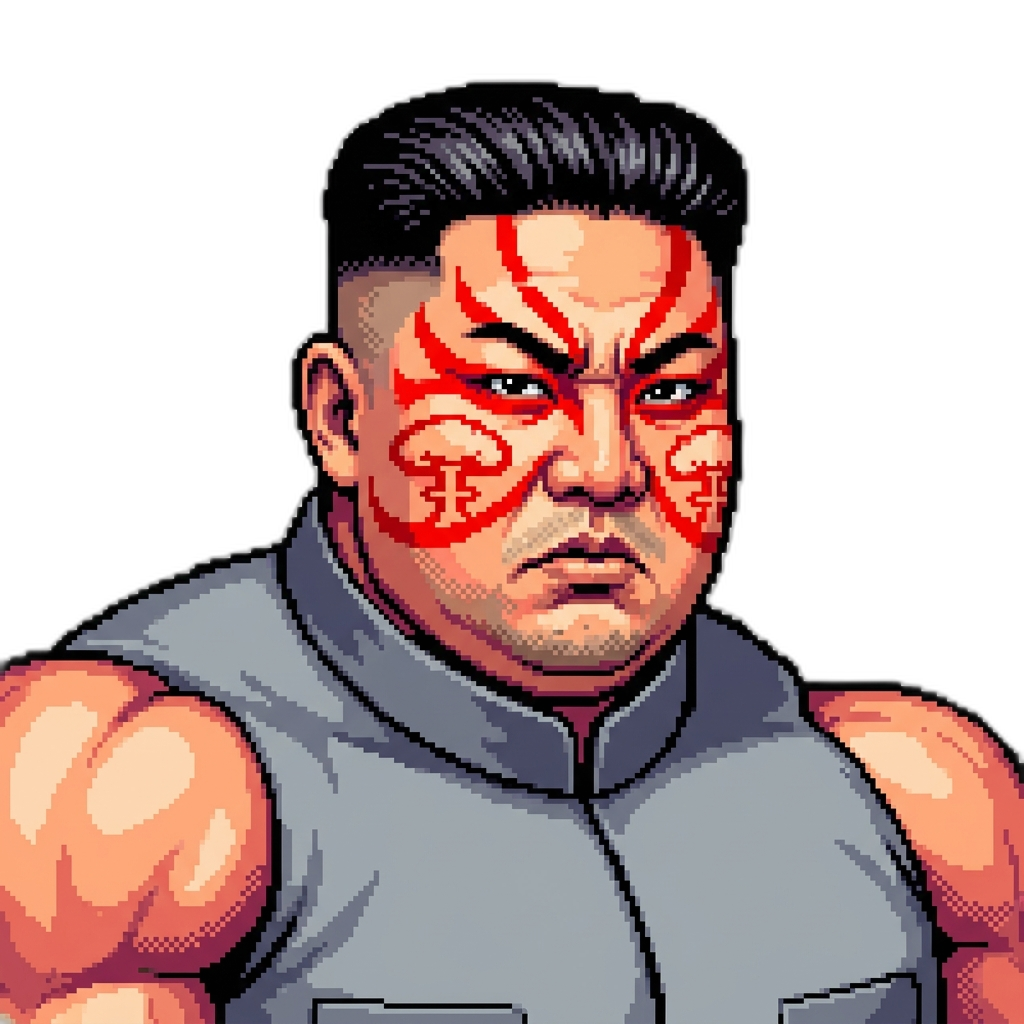
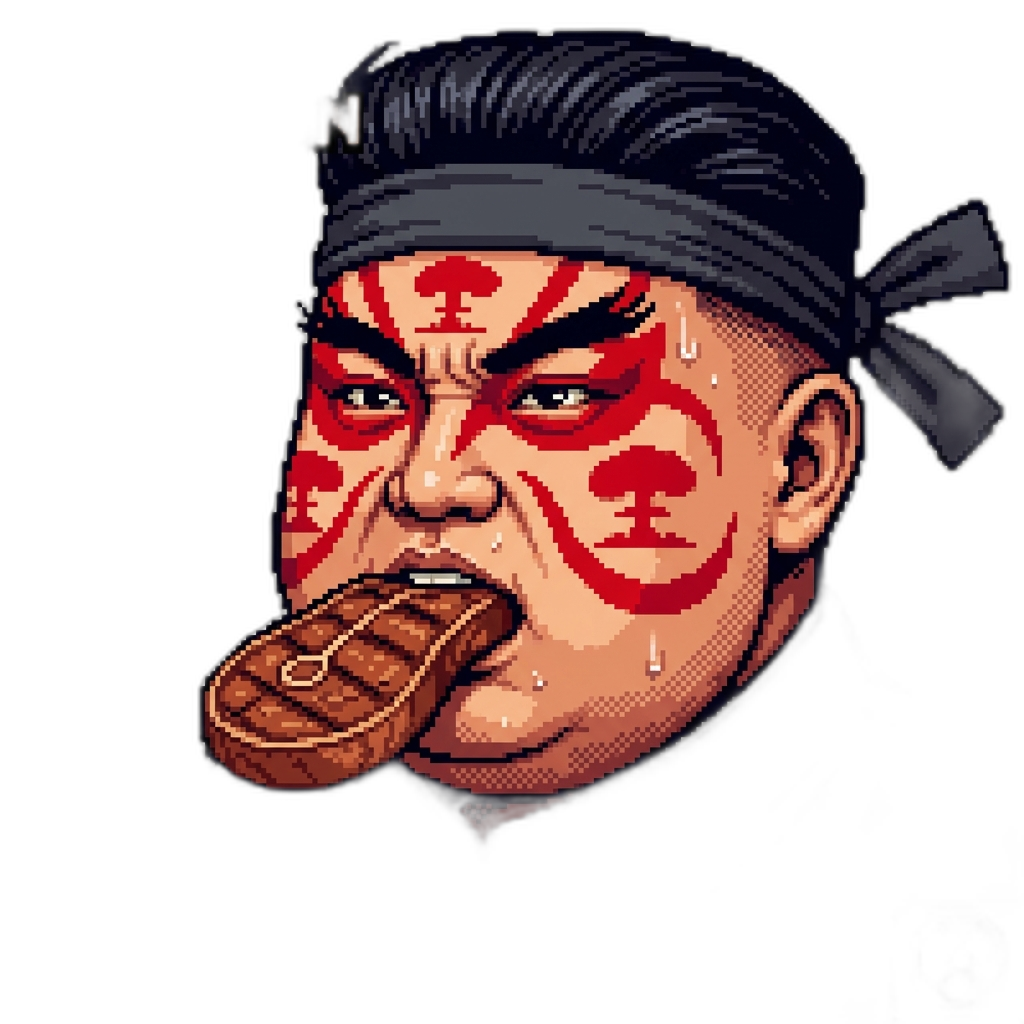
Refine Kim Jong-un (Chubby + Steak) and Pyongyang landmark

diff --git a/scripts/apply_rembg.py b/scripts/apply_rembg.py
@@ -35,11 +35,11 @@ def process_with_ai(src_path, dest_path):
     except Exception as e:
         print(f"Error processing {src_path}: {e}")
 
-# Mapping of Pyongyang Square + Kim Jong-un parody to game assets
+# Mapping of Pyongyang Square + Kim Jong-un (Chubby/Steak version) to game assets
 BATCH_MAPPING = {
     r"C:\Users\dacan\.gemini\antigravity\brain\e1ff93e5-feb9-40de-bb1e-b46aafdf7fd1\landmark_pyongyang_satire_1774779199106.png": r"c:\Users\dacan\OneDrive\Documenti\My Games\civic-nightmare\assets\mockups\landmark_pyongyang.png",
-    r"C:\Users\dacan\.gemini\antigravity\brain\e1ff93e5-feb9-40de-bb1e-b46aafdf7fd1\kim_jong_un_pure_sprite_1774779343382.png": r"c:\Users\dacan\OneDrive\Documenti\My Games\civic-nightmare\assets\mockups\kim_jong_un_sprite.png",
-    r"C:\Users\dacan\.gemini\antigravity\brain\e1ff93e5-feb9-40de-bb1e-b46aafdf7fd1\kim_jong_un_honda_portrait_v13_arcade_1774779364027.png": r"c:\Users\dacan\OneDrive\Documenti\My Games\civic-nightmare\assets\mockups\kim_jong_un_portrait.png",
+    r"C:\Users\dacan\.gemini\antigravity\brain\e1ff93e5-feb9-40de-bb1e-b46aafdf7fd1\kim_jong_un_chubby_steak_sprite_v2_arcade_1774779699817.png": r"c:\Users\dacan\OneDrive\Documenti\My Games\civic-nightmare\assets\mockups\kim_jong_un_sprite.png",
+    r"C:\Users\dacan\.gemini\antigravity\brain\e1ff93e5-feb9-40de-bb1e-b46aafdf7fd1\kim_jong_un_honda_steak_portrait_v14_arcade_1774779721550.png": r"c:\Users\dacan\OneDrive\Documenti\My Games\civic-nightmare\assets\mockups\kim_jong_un_portrait.png",
 }
 
 if __name__ == "__main__":
